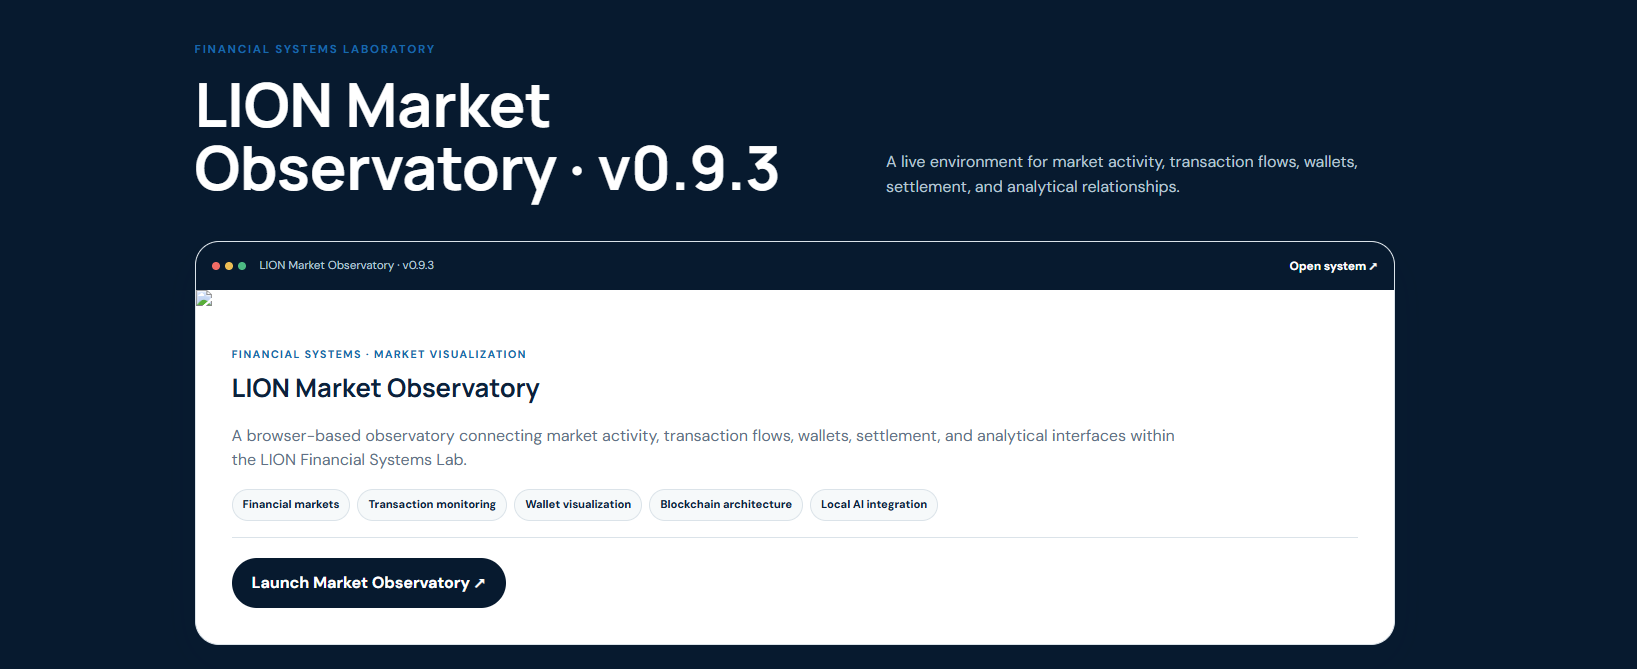
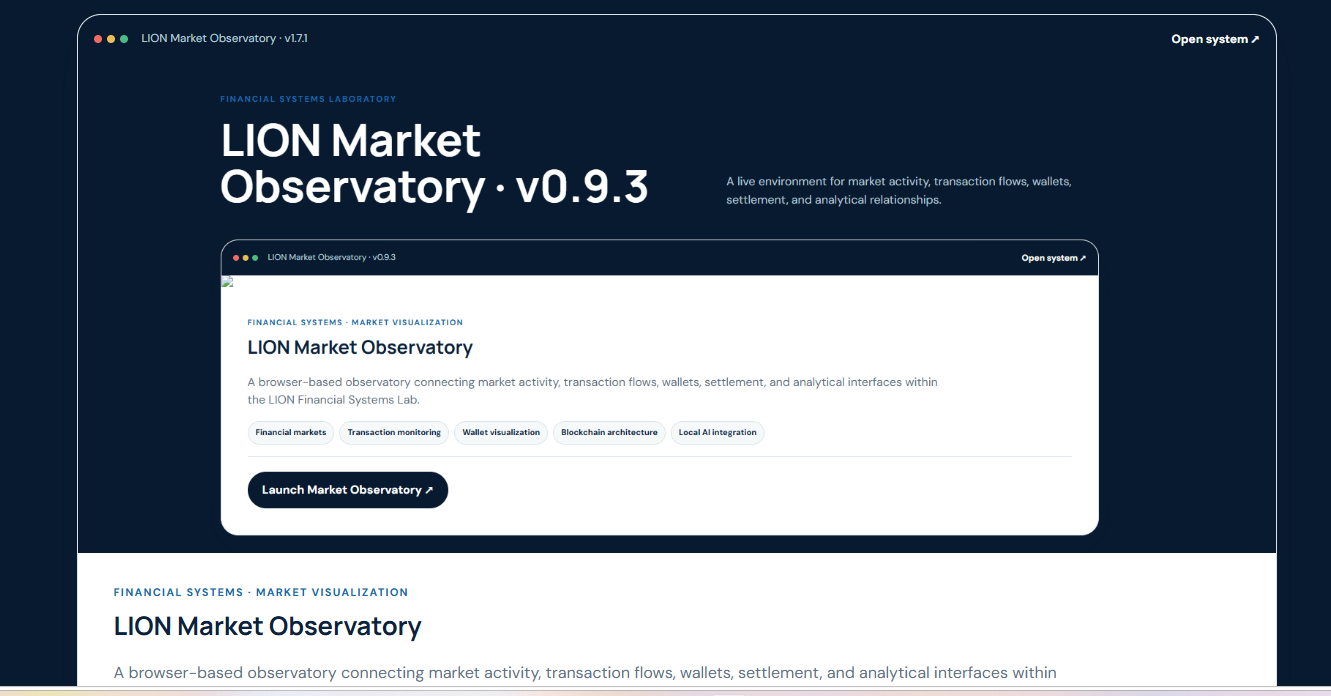
Add files via upload

diff --git a/index.html b/index.html
@@ -5,4 +5,4 @@
 <section class="section appsec" id="applications"><div class="shell"><div class="head"><div><p class="kicker">Applied finance systems</p><h2>Working applications and laboratories.</h2></div><p>Select any project image or launch button to open the full application in a new tab.</p></div><article class="card"><div class="bar"><div class="dots"><i></i><i></i><i></i></div><span>lion-lab.tail47a016.ts.net:8443/</span><a href="https://lion-lab.tail47a016.ts.net:8443/" target="_blank">Open ↗</a></div><a class="image-link" href="https://lion-lab.tail47a016.ts.net:8443/" target="_blank"><img src="assets/treasury-agent-lab.png" alt="Treasury Agent Evaluation Lab project visual"></a><div class="body"><p class="type">AI evaluation · Treasury governance · Synthetic lab</p><h3>Treasury Agent Evaluation Lab</h3><p class="desc">Evaluates an AI treasury agent through cash-position monitoring, a 13-week liquidity forecast, exceptions, approvals, evidence review, and explicit human decision controls.</p><ul class="tags"><li>AI agent evaluation</li><li>Treasury management</li><li>Liquidity forecasting</li><li>Human-in-the-loop</li><li>Synthetic data</li></ul><div class="actions"><a class="btn" href="https://lion-lab.tail47a016.ts.net:8443/" target="_blank">Launch project ↗</a></div></div></article><article class="card"><div class="bar"><div class="dots"><i></i><i></i><i></i></div><span>treasury-team-of-one.streamlit.app/</span><a href="https://treasury-team-of-one.streamlit.app/" target="_blank">Open ↗</a></div><a class="image-link" href="https://treasury-team-of-one.streamlit.app/" target="_blank"><img src="assets/treasury-one.jpg" alt="The Treasury Team of One project visual"></a><div class="body"><p class="type">Treasury · AI-enabled decision support</p><h3>The Treasury Team of One</h3><p class="desc">Brings fragmented evidence, liquidity, funding, cash flow, risk, and a CFO deadline into a governed decision workflow.</p><ul class="tags"><li>Python</li><li>Streamlit</li><li>AI agents</li><li>Liquidity planning</li><li>Decision governance</li></ul><div class="actions"><a class="btn" href="https://treasury-team-of-one.streamlit.app/" target="_blank">Launch project ↗</a></div></div></article><article class="card"><div class="bar"><div class="dots"><i></i><i></i><i></i></div><span>risk-management-lu8siifcfmzavh5qqzlc2d.streamlit.app/</span><a href="https://risk-management-lu8siifcfmzavh5qqzlc2d.streamlit.app/" target="_blank">Open ↗</a></div><a class="image-link" href="https://risk-management-lu8siifcfmzavh5qqzlc2d.streamlit.app/" target="_blank"><img src="assets/blackridge.jpg" alt="Blackridge Mortgage Regime Lab project visual"></a><div class="body"><p class="type">Risk management · Mortgage regime analysis</p><h3>Blackridge Mortgage Regime Lab</h3><p class="desc">Examines how regime change alters mortgage exposure, valuation, liquidity, and portfolio decisions.</p><ul class="tags"><li>Python</li><li>Streamlit</li><li>Monte Carlo</li><li>VaR and CVaR</li><li>Model governance</li></ul><div class="actions"><a class="btn" href="https://risk-management-lu8siifcfmzavh5qqzlc2d.streamlit.app/" target="_blank">Launch project ↗</a></div></div></article></div></section>
 <section class="section lion" id="lion"><div class="shell"><div class="head"><div><p class="kicker">Financial systems laboratory</p><h2>LION Market Observatory · v1.7.1</h2></div><p>A live environment for market activity, transaction flows, wallets, settlement, and analytical relationships.</p></div><article class="card"><div class="bar"><div class="dots"><i></i><i></i><i></i></div><span>LION Market Observatory · v1.7.1</span><a href="https://lion-lab.tail47a016.ts.net/" target="_blank">Open system ↗</a></div><a class="lion-shot" href="https://lion-lab.tail47a016.ts.net/" target="_blank"><img src="assets/lion-market-observatory.png" alt="LION Market Observatory interface showing market network, treasury issuance, settlement, student wallets, facility, class claims, blocks, and transaction context"></a><div class="body"><p class="type">Financial systems · Market visualization</p><h3>LION Market Observatory</h3><p class="desc">A browser-based observatory connecting market activity, transaction flows, wallets, settlement, and analytical interfaces within the LION Financial Systems Lab.</p><ul class="tags"><li>Financial markets</li><li>Transaction monitoring</li><li>Wallet visualization</li><li>Blockchain architecture</li><li>Local AI integration</li></ul><div class="actions"><a class="btn" href="https://lion-lab.tail47a016.ts.net/" target="_blank">Launch Market Observatory ↗</a></div></div></article></div></section>
 <section class="section research" id="research"><div class="shell"><div class="head"><div><p class="kicker">Selected scholarship</p><h2>Research with real-world relevance.</h2></div><p>Governance, monetary economics, impact estimation, industrial organization, and the space economy.</p></div><div class="papers"><article><b>01</b><div><h3>Corporate Governance in India and Pakistan</h3><p>Review of Development Economics</p></div><a href="https://doi.org/10.1111/rode.70026">DOI ↗</a></article><article><b>02</b><div><h3>Cryptocurrencies, Money Demand, and Monetary Policy</h3><p>Bulletin of Monetary Economics and Banking</p></div><a href="https://doi.org/10.59091/2460-9196.1722">DOI ↗</a></article><article><b>03</b><div><h3>Disasters and Impact Estimation</h3><p>Natural Hazards</p></div><a href="https://doi.org/10.1007/s11069-025-07107-4">DOI ↗</a></article><article><b>04</b><div><h3>Musk v. Bezos: A Battle for Space Supremacy</h3><p>Private space competition, strategic rivalry, and innovation.</p></div><a href="https://doi.org/10.58311/jeconteach/235ba05256e7a8fd722062590c4778eecb47f02e">Paper ↗</a></article></div></div></section>
-<section class="section" id="media"><div class="shell"><div class="head"><div><p class="kicker">Research media</p><h2>See the work in motion.</h2></div><p>Video presentations provide another path into the research and analytical process.</p></div><div class="videos"><article class="video"><div class="vf"><iframe src="https://www.youtube.com/embed/XTl9y5Nk5EQ?rel=0" title="Disasters and Impact Estimation" allowfullscreen></iframe></div><div class="vc"><h3>Disasters and Impact Estimation</h3><p>Impact estimation following the Great East Japan Earthquake and tsunami in Tohoku.</p></div></article><article class="video"><div class="vf"><iframe src="https://www.youtube.com/embed/E8Cbmy8RWvg?rel=0" title="Musk v. Bezos: A Battle for Space Supremacy" allowfullscreen></iframe></div><div class="vc"><h3>Musk v. Bezos: A Battle for Space Supremacy</h3><p>Private space competition, strategic rivalry, innovation, and commercial-space economics.</p></div></article></div></div></section></main><footer><div class="shell foot"><b>Zachary A. Smith · Finance · Economics · Applied Systems</b><span>© 2026 · Complete Production v15</span></div></footer></body></html>
+<section class="section" id="media"><div class="shell"><div class="head"><div><p class="kicker">Research media</p><h2>See the work in motion.</h2></div><p>Video presentations provide another path into the research and analytical process.</p></div><div class="videos"><article class="video"><div class="vf"><iframe src="https://www.youtube.com/embed/XTl9y5Nk5EQ?rel=0" title="Disasters and Impact Estimation" allowfullscreen></iframe></div><div class="vc"><h3>Disasters and Impact Estimation</h3><p>Impact estimation following the Great East Japan Earthquake and tsunami in Tohoku.</p></div></article><article class="video"><div class="vf"><iframe src="https://www.youtube.com/embed/E8Cbmy8RWvg?rel=0" title="Musk v. Bezos: A Battle for Space Supremacy" allowfullscreen></iframe></div><div class="vc"><h3>Musk v. Bezos: A Battle for Space Supremacy</h3><p>Private space competition, strategic rivalry, innovation, and commercial-space economics.</p></div></article></div></div></section></main><footer><div class="shell foot"><b>Zachary A. Smith · Finance · Economics · Applied Systems</b><span>© 2026 · Complete Production v16</span></div></footer></body></html>

diff --git a/README.md b/README.md
@@ -1,5 +1,5 @@
-# Zachary A. Smith Portfolio · Complete Production v15
+# Zachary A. Smith Portfolio · Complete Production v16
 
-Restores the complete portfolio, includes the Treasury Agent Evaluation Lab, and packages the supplied LION Market Observatory visual locally.
+Corrects the LION section by replacing the screenshot of the broken portfolio card with the actual supplied LION Market Observatory interface. All other Production v15 content remains unchanged.
 
-Deploy `index.html`, `.nojekyll`, and the complete `assets` folder. Confirm the footer reads `Complete Production v15`.
+Deploy `index.html`, `.nojekyll`, and the complete `assets` folder. Confirm the footer reads `Complete Production v16`.
